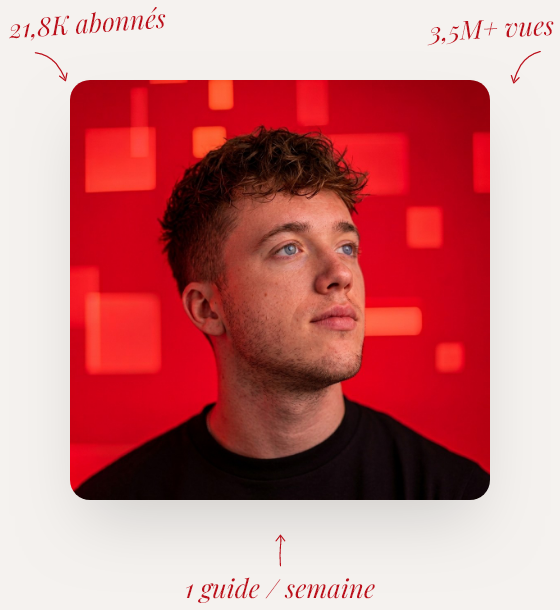
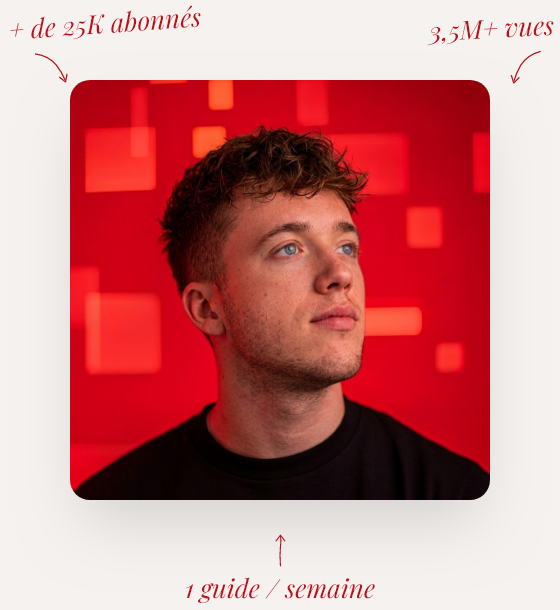
Update hero to + de 25K abonnés

Changed region(s): [[0.0, 0.0, 0.3643, 0.0934], [0.0911, 0.0934, 0.1214, 0.1557]]

diff --git a/index.html b/index.html
@@ -310,7 +310,7 @@
                 <p class="hero-small">Ou <a href="#guides">parcourir les guides gratuits</a>.</p>
             </div>
             <div class="hero-photo-wrap">
-                <img src="hero-photo.png" alt="Igor Sautier - 21,8K abonn&eacute;s, 3,5M+ vues, 1 guide par semaine" loading="eager" style="width:100%;max-width:480px;height:auto;border-radius:0;display:block;margin:0 auto">
+                <img src="hero-photo.png" alt="Igor Sautier - + de 25K abonn&eacute;s, 3,5M+ vues, 1 guide par semaine" loading="eager" style="width:100%;max-width:480px;height:auto;border-radius:0;display:block;margin:0 auto">
             </div>
         </div>
     </div>
